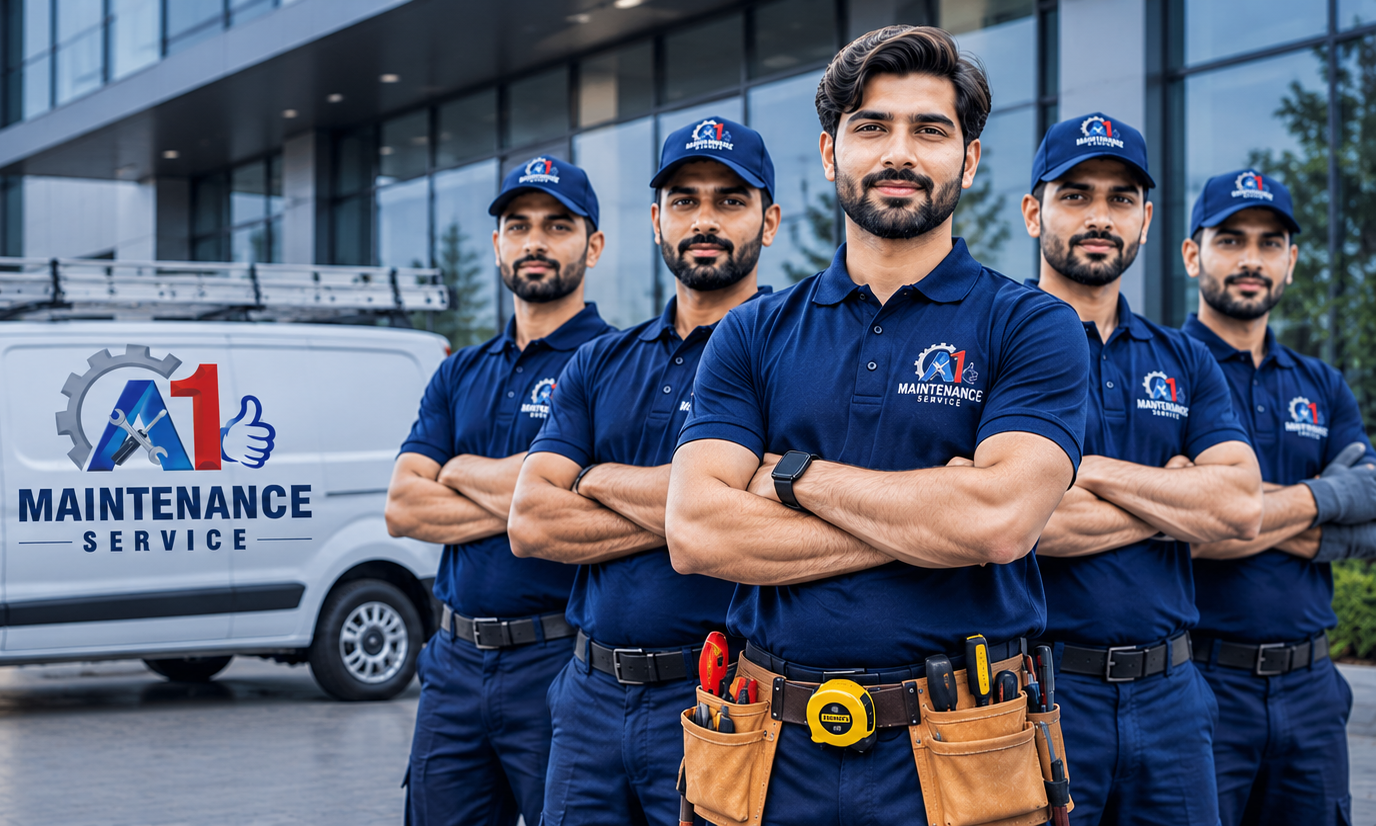
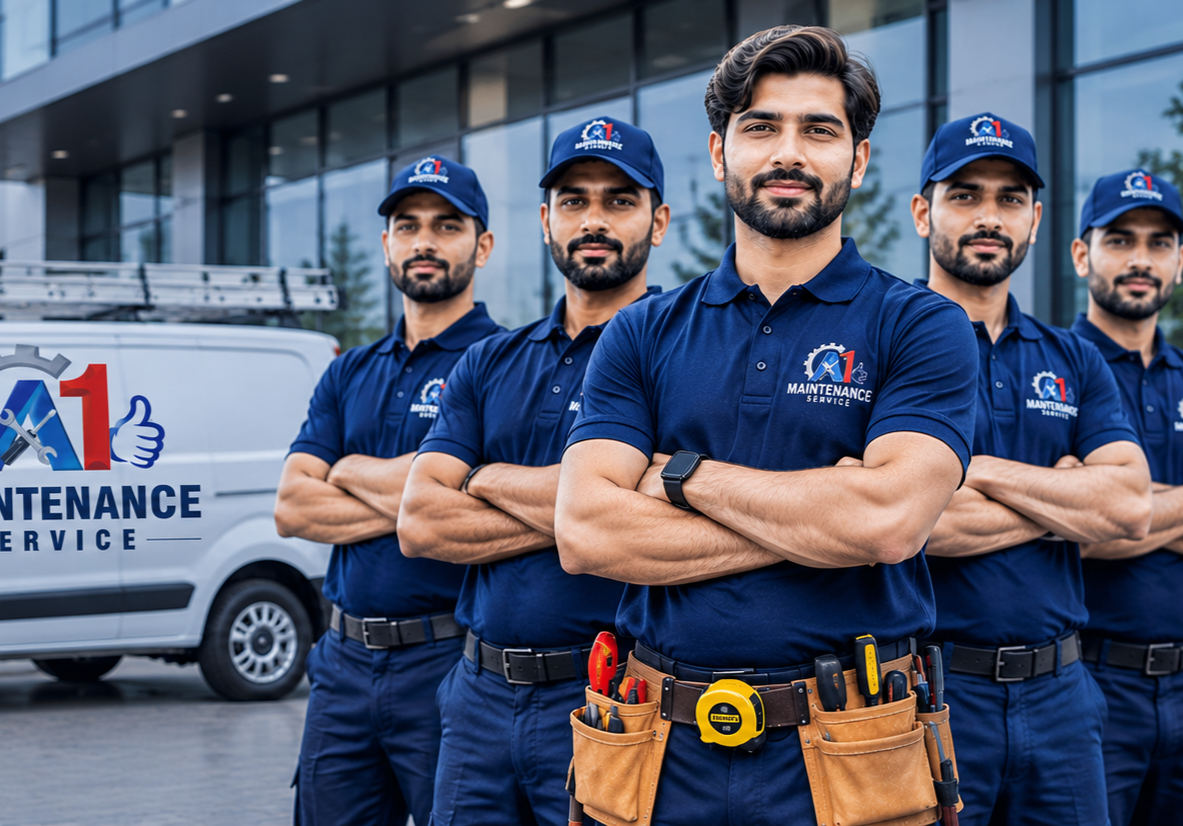
loader and header fixed

diff --git a/src/components/layout/Header.tsx b/src/components/layout/Header.tsx
@@ -113,12 +113,12 @@ export function Header() {
           aria-expanded={open}
           aria-controls="mobile-menu"
           aria-label={open ? "Close menu" : "Open menu"}
-          className="focus-ring grid size-11 shrink-0 place-items-center rounded-md border border-slate-200 text-brand-navy transition-colors hover:bg-slate-50 xl:hidden"
+          className="focus-ring shrink-0 rounded-lg border border-brand-navy/20 bg-white p-2.5 text-brand-navy shadow-sm transition-all hover:bg-brand-navy hover:text-white hover:border-brand-navy active:scale-95 xl:hidden"
         >
           {open ? (
-            <X aria-hidden="true" size={21} />
+            <X aria-hidden="true" size={20} strokeWidth={2} strokeLinecap="round" strokeLinejoin="round" />
           ) : (
-            <Menu aria-hidden="true" size={21} />
+            <Menu aria-hidden="true" size={20} strokeWidth={2} strokeLinecap="round" strokeLinejoin="round" />
           )}
         </button>
       </div>
@@ -134,12 +134,9 @@ export function Header() {
               duration: reduceMotion ? 0.01 : 0.24,
               ease: [0.22, 1, 0.36, 1],
             }}
-            className="overflow-hidden border-t border-slate-100 bg-white xl:hidden"
+            className="overflow-hidden border-t border-slate-200 bg-white/95 backdrop-blur-md shadow-[0_24px_48px_rgba(13,27,42,0.08)] xl:hidden"
           >
-            <nav
-              className="container-shell flex flex-col py-3"
-              aria-label="Mobile navigation"
-            >
+            <nav className="container-shell flex flex-col py-4" aria-label="Mobile navigation">
               {NAV_ITEMS.map((item) => (
                 <Link
                   onClick={() => setOpen(false)}
@@ -147,23 +144,40 @@ export function Header() {
                   to={item.href}
                   aria-current={isItemActive(item.href) ? "page" : undefined}
                   className={cn(
-                    "focus-ring border-b border-slate-100 py-3.5 text-[15px] font-bold",
+                    "focus-ring relative flex items-center gap-3 border-b border-slate-100/50 py-4 text-[15px] font-bold transition-colors",
                     isItemActive(item.href)
                       ? "text-brand-red"
                       : "text-brand-navy",
                   )}
                 >
                   {item.label}
+                  {isItemActive(item.href) && (
+                    <span className="absolute left-0 top-0 bottom-0 w-[3px] rounded-full bg-brand-red" />
+                  )}
                 </Link>
               ))}
-              <div className="mt-4 grid grid-cols-2 gap-3 pb-2">
-                <Button href={SITE.phoneHref} variant="secondary" icon={false}>
-                  <Phone aria-hidden="true" size={16} />
-                  Call Now
-                </Button>
-                <Button href="/request-service" icon={false} className="bg-brand-red text-white border-brand-red hover:bg-[#a3141a] hover:border-[#a3141a]">
-                  Request Service
-                </Button>
+              <div className="mt-6 pt-6 border-t border-slate-100/60">
+                <div className="grid grid-cols-2 gap-3 pb-4">
+                  <Button
+                    href={SITE.phoneHref}
+                    variant="ghost"
+                    icon={false}
+                    className="border-slate-200 px-3.5 py-2.5 text-sm font-bold text-brand-navy hover:bg-slate-50"
+                  >
+                    <Phone aria-hidden="true" size={15} />
+                    Call Now
+                  </Button>
+                  <Button
+                    href="/request-service"
+                    icon={false}
+                    className="bg-brand-red text-white border-brand-red py-2.5 text-sm font-bold hover:bg-[#a3141a] hover:border-[#a3141a]"
+                  >
+                    Request Service
+                  </Button>
+                </div>
+                <p className="text-xs text-slate-500 text-center">
+                  9-B, Sanam Arcade, Mozang Chungi, Ferozpur Road, Lahore
+                </p>
               </div>
             </nav>
           </motion.div>

diff --git a/src/pages/HomePage.tsx b/src/pages/HomePage.tsx
@@ -70,7 +70,7 @@ export default function HomePage() {
 
 <section
   ref={heroRef}
-  className="technical-grid relative overflow-hidden bg-brand-navy text-white min-h-[70vh] lg:min-h-[90vh] max-h-[100vh] pt-20 pb-12 lg:pt-0 lg:pb-0 mt-20"
+  className="technical-grid relative overflow-hidden bg-brand-navy text-white min-h-[70vh] lg:min-h-[90vh] max-h-[100vh] pt-44 lg:pt-20 pb-12 lg:pt-0 lg:pb-0 mt-20"
 >
   {/* ---------- Large devices: hero image, gradient left-to-right ---------- */}
   <div className="pointer-events-none hidden lg:block inset-0 -z-10 h-full">
@@ -96,7 +96,7 @@ export default function HomePage() {
       decoding="async"
       aria-hidden="true"
     />
-    <div className="absolute inset-0 bg-gradient-to-t from-brand-navy via-brand-navy/90 to-transparent" />
+    <div className="absolute inset-0 bg-gradient-to-t from-brand-navy via-brand-navy/80 to-transparent" />
     <div className="absolute right-[10%] top-1/3 -translate-y-1/2 h-[300px] w-[400px] rounded-full bg-sky-500/20 blur-[100px]" />
   </div>
 
@@ -140,7 +140,7 @@ export default function HomePage() {
       {/* Trust stats bar - like AJ Long Electric */}
       <AnimatedSection className="py-8 bg-white border-y border-slate-200">
         <div className="container-shell">
-          <div className="grid gap-4 sm:grid-cols-2 lg:grid-cols-4 text-center">
+          <div className="grid gap-4 sm:grid-cols-4 grid-cols-2 lg:grid-cols-4 text-center">
             {[
               { label: "Years serving Lahore", value: SITE.yearsInBusiness },
               { label: "Google reviews", value: `${SITE.reviewCount}+` },

diff --git a/src/App.tsx b/src/App.tsx
@@ -1,4 +1,5 @@
 import { lazy, Suspense } from 'react'
+import { Loader2 } from 'lucide-react'
 import { Navigate, Route, Routes, useParams } from 'react-router-dom'
 import { Layout } from '@/components/layout/Layout'
 
@@ -19,7 +20,7 @@ const LegalPage=lazy(()=>import('@/pages/LegalPage'))
 const NotFoundPage=lazy(()=>import('@/pages/NotFoundPage'))
 
 export default function App(){
-  return <Suspense fallback={<div role="status" className="grid min-h-svh place-items-center bg-brand-navy text-sm font-bold text-white">Loading A-One…</div>}><Routes>
+  return <Suspense fallback={<div role="status" className="grid min-h-svh place-items-center bg-brand-navy text-white"><Loader2 className="mx-auto mb-2 w-8 h-8 text-brand-cyan animate-spin" /></div>}><Routes>
     <Route element={<Layout/>}>
       <Route index element={<HomePage/>}/>
       <Route path="services" element={<ServicesPage/>}/>

diff --git a/src/styles/index.css b/src/styles/index.css
@@ -524,6 +524,15 @@ img {
   }
 }
 
+.animate-spin {
+  animation: spin 1s linear infinite;
+}
+
+@keyframes spin {
+  from { transform: rotate(0deg); }
+  to { transform: rotate(360deg); }
+}
+
 /* Blur utility for crossfade transitions - masks two-state overlap */
 .blur-transition {
   transition: filter 200ms ease, opacity 200ms ease;
